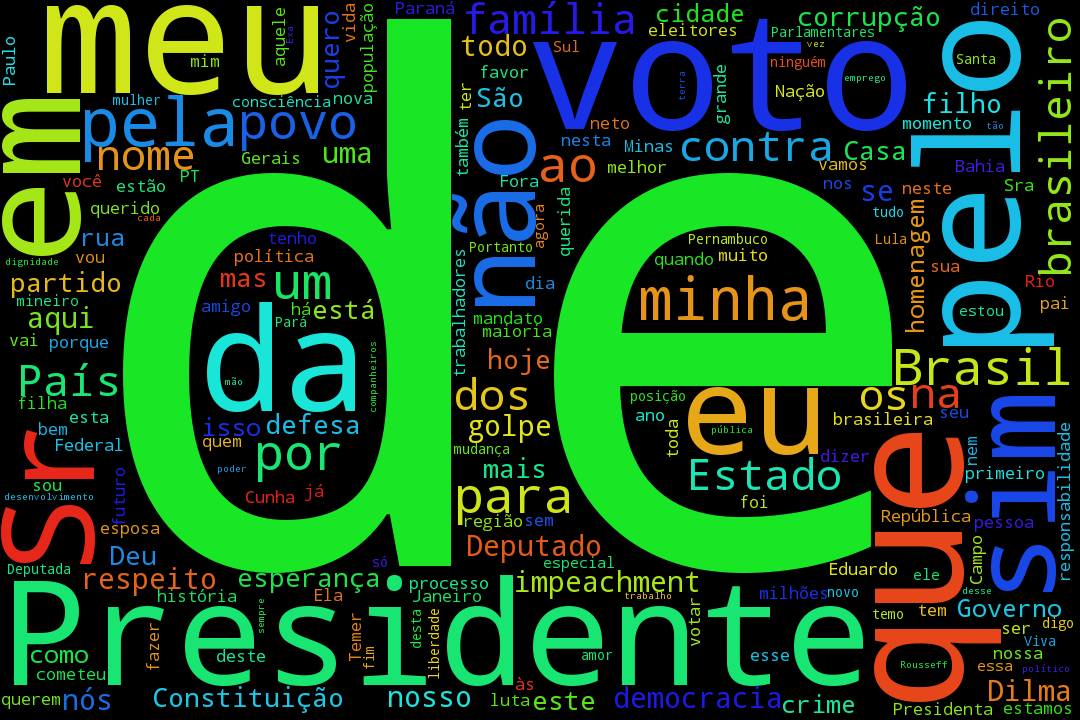
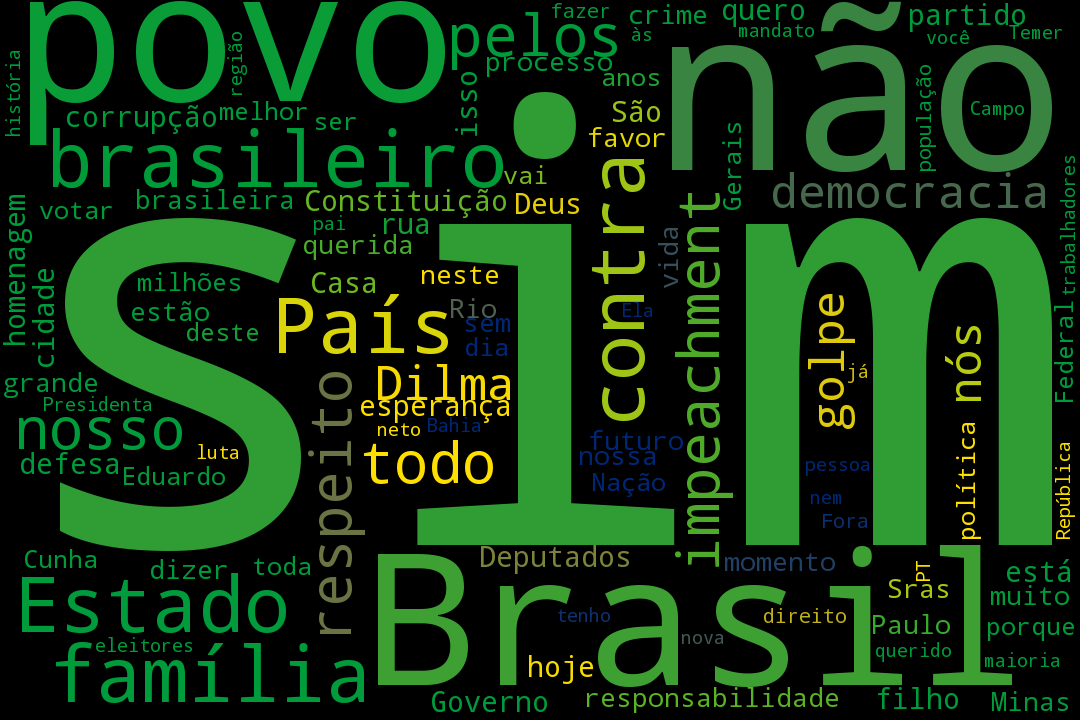
Updating the main, adding more examples

diff --git a/main.py b/main.py
@@ -1,18 +1,31 @@
 from os import path
-from wordcloud import WordCloud
+from wordcloud import WordCloud, ImageColorGenerator
 import csv
+import numpy as np
+from PIL import Image
 
 current_dir = path.dirname(__file__)
 votes = csv.reader(
     open(path.join(current_dir, 'votes.csv')),
     delimiter=',', quotechar='"')
 
+brazil_colors = ImageColorGenerator(
+    np.array(
+        Image.open(
+            path.join(current_dir, "Flag_of_Brazil.png")
+        )
+    )
+)
+
+votes_all = []
 votes_yes = []
 votes_no = []
 votes_men = []
 votes_women = []
 
 for row in votes:
+    votes_all.append(row[5])
+
     if row[3].lower() == 'sim':
         votes_yes.append(row[5])
     else:
@@ -27,13 +40,21 @@ votes_yes = ' '.join(votes_yes)
 votes_no = ' '.join(votes_no)
 votes_men = ' '.join(votes_men)
 votes_women = ' '.join(votes_women)
+votes_all = ' '.join(votes_all)
 
 blacklist = (
-    'do', 'da', 'no', 'na', 'de', 'que', 'se', 'os', 'ao', 'aos'
+    'voto', 'srs', 'mas', 'minha', 'tão', 'portanto', 'sou',
+    'do', 'da', 'no', 'na', 'de', 'que', 'se', 'os', 'ao', 'aos',
     'um', 'uma', 'deputado', 'sr', 'em', 'presidente', 'pelo', 'pela', 'para',
-    'meu')
-word_cloud = WordCloud(width=1080, height=720, stopwords=blacklist)
+    'meu', 'por', 'dos', 'eu', 'com', 'como', 'das', 'nome', 'as', 'sua',
+    'esse', 'este', 'seu', 'nas', 'deu', 'esta', 'tem', 'também', 'sra',
+    'pelas', 'nos', 'mais', 'nesta', 'foi', 'me', 'meus',
+    'há', 'aqui', 'ano', 'vou', 'ter')
+word_cloud = WordCloud(width=1080, height=720,
+                       stopwords=blacklist, color_func=brazil_colors,
+                       max_words=100)
 word_cloud.generate(votes_yes).to_file('yes.png')
 word_cloud.generate(votes_no).to_file('no.png')
 word_cloud.generate(votes_men).to_file('men.png')
 word_cloud.generate(votes_women).to_file('women.png')
+word_cloud.generate(votes_all).to_file('all.png')
